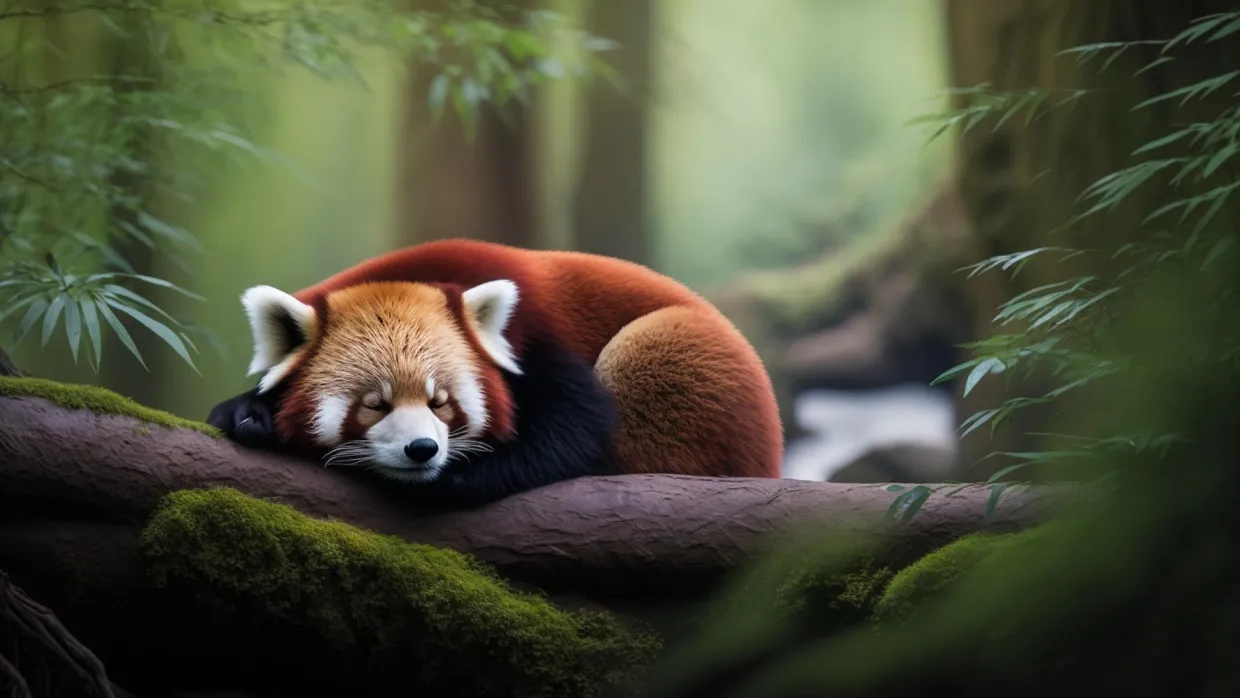
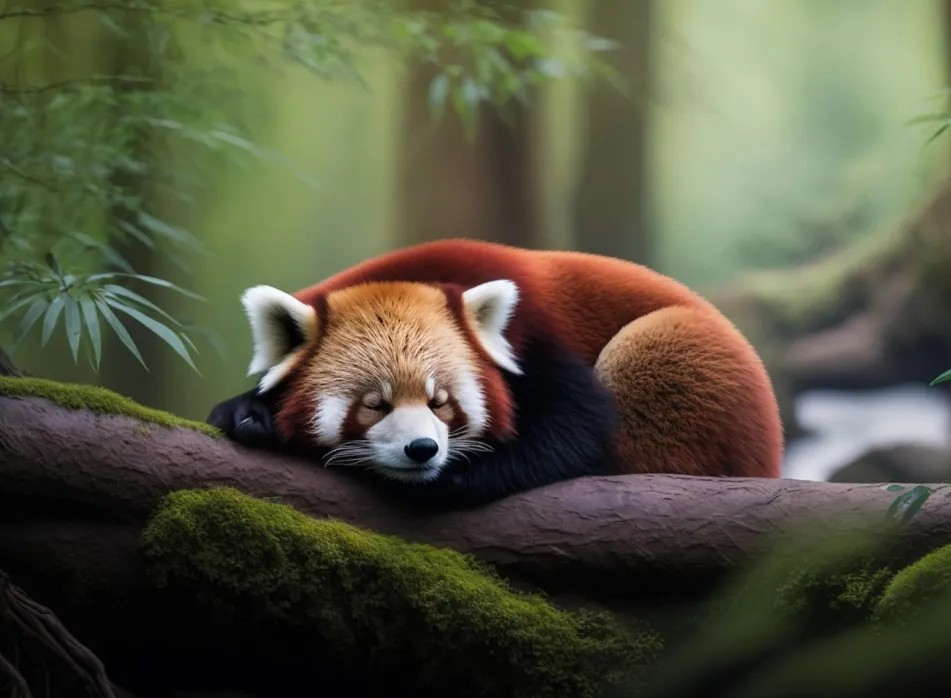
fix: adjust home page layout and styles

diff --git a/src/views/renderHome/renderHome.css b/src/views/renderHome/renderHome.css
@@ -4,7 +4,6 @@
   flex-direction: column;
   justify-items: center;
   align-content: center;
-  background: url("../../assets/images/sleeping-panda.png") center/cover no-repeat;
   width: 100vw;
   height: 100vh;
 }
@@ -19,12 +18,30 @@
   height: calc(100vh - 56px - 77px);
 }
 
+.home-image-container {
+  display: flex;
+  flex-direction: row;
+  justify-content: center;
+  position: relative;
+  width: 100%;
+  height: 100%;
+  overflow: hidden;
+}
+
+.home-panda-image {
+  position: absolute;
+  width: 100%;
+  height: 100%;
+  object-fit: cover; /* or try contain */
+  z-index: -1;
+}
+
 .home-text {
   color: white;
   text-shadow:
     2px 2px 4px rgba(0, 0, 0, 0.5),
     -1px -1px 0 rgba(0, 0, 0, 0.3);
-  font-size: 4.5rem;
+  font-size: 4rem;
   text-align: center;
   max-width: 90%;
   margin-bottom: 2rem;
@@ -32,4 +49,30 @@
   position: relative;
   z-index: 2;
   transition: opacity 0.3s ease;
+  padding: 30px;
+}
+
+/* Background Overlay */
+.home-main::before {
+  content: "";
+  position: absolute;
+  top: 0;
+  left: 0;
+  right: 0;
+  bottom: 0;
+  background: rgba(0, 0, 0, 0.4);
+  z-index: 1;
+}
+
+/* Media Queries */
+@media (max-width: 1400px) {
+  .home-text {
+    font-size: 3rem;
+  }
+}
+
+@media (max-width: 480px) {
+  .home-text {
+    font-size: 2rem;
+  }
 }

diff --git a/src/views/renderHome/renderHome.ts b/src/views/renderHome/renderHome.ts
@@ -7,9 +7,15 @@ import "./renderHome.css";
 export function renderHome(parent: HTMLElement): void {
   const isAuth = getState("userAuth");
   const customer = getState("customer");
-  const main = createElement("main", { class: "home-main" }, [
-    createElement("p", { class: "home-text" }, ["Relax, while we're building this page for you"]),
+  const imageContainer = createElement("div", { class: "home-image-container" }, [
+    createElement("img", {
+      src: "../../assets/images/sleeping-panda.png",
+      alt: "Home panda",
+      class: "home-panda-image",
+    }),
+    createElement("p", { class: "home-text" }, ["Relax, while we're building home page for you"]),
   ]);
+  const main = createElement("main", { class: "home-main" }, [imageContainer]);
   const container = createElement("main", { class: "home-container" }, [
     createHeader(isAuth, customer),
     main,
